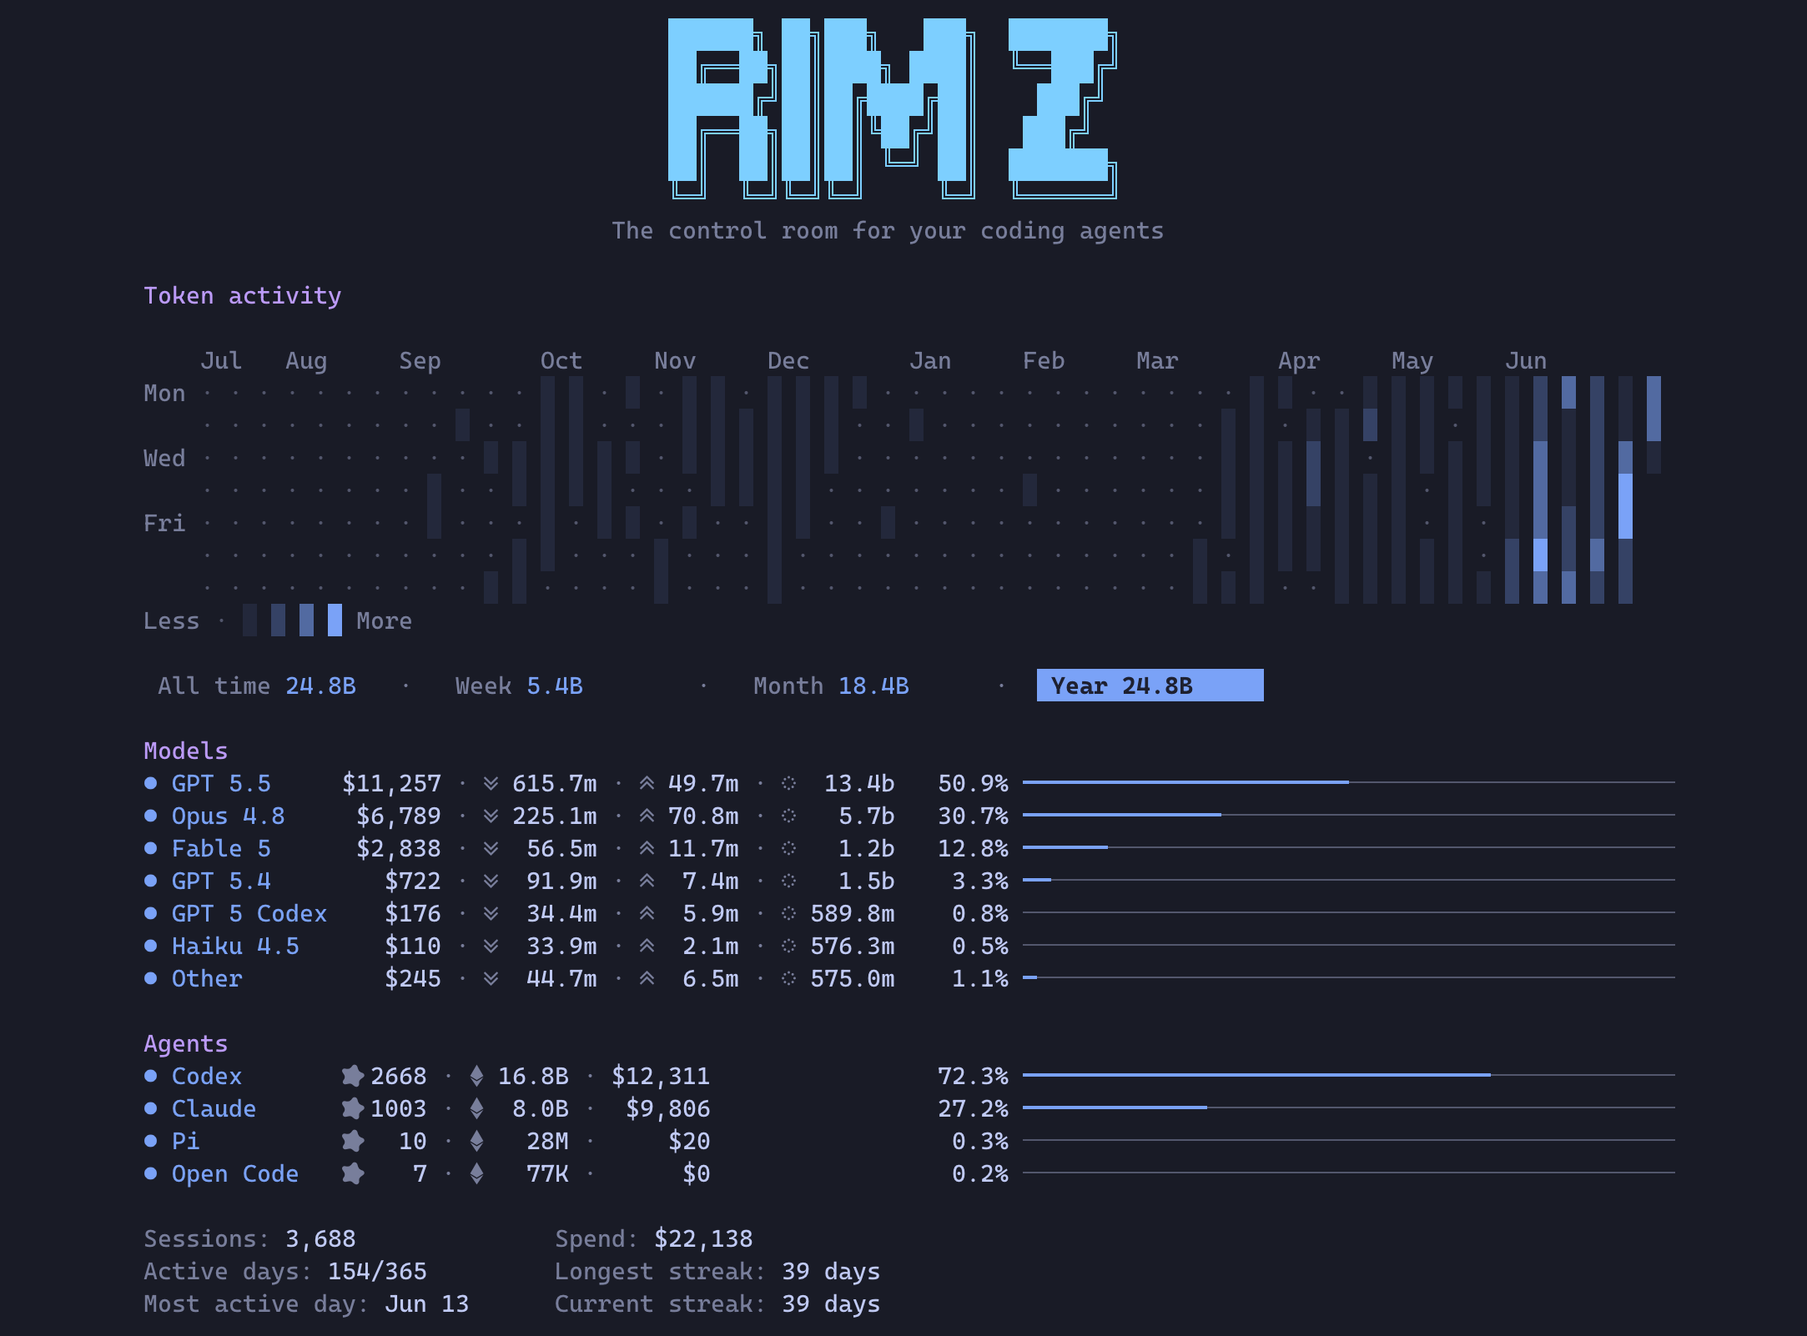
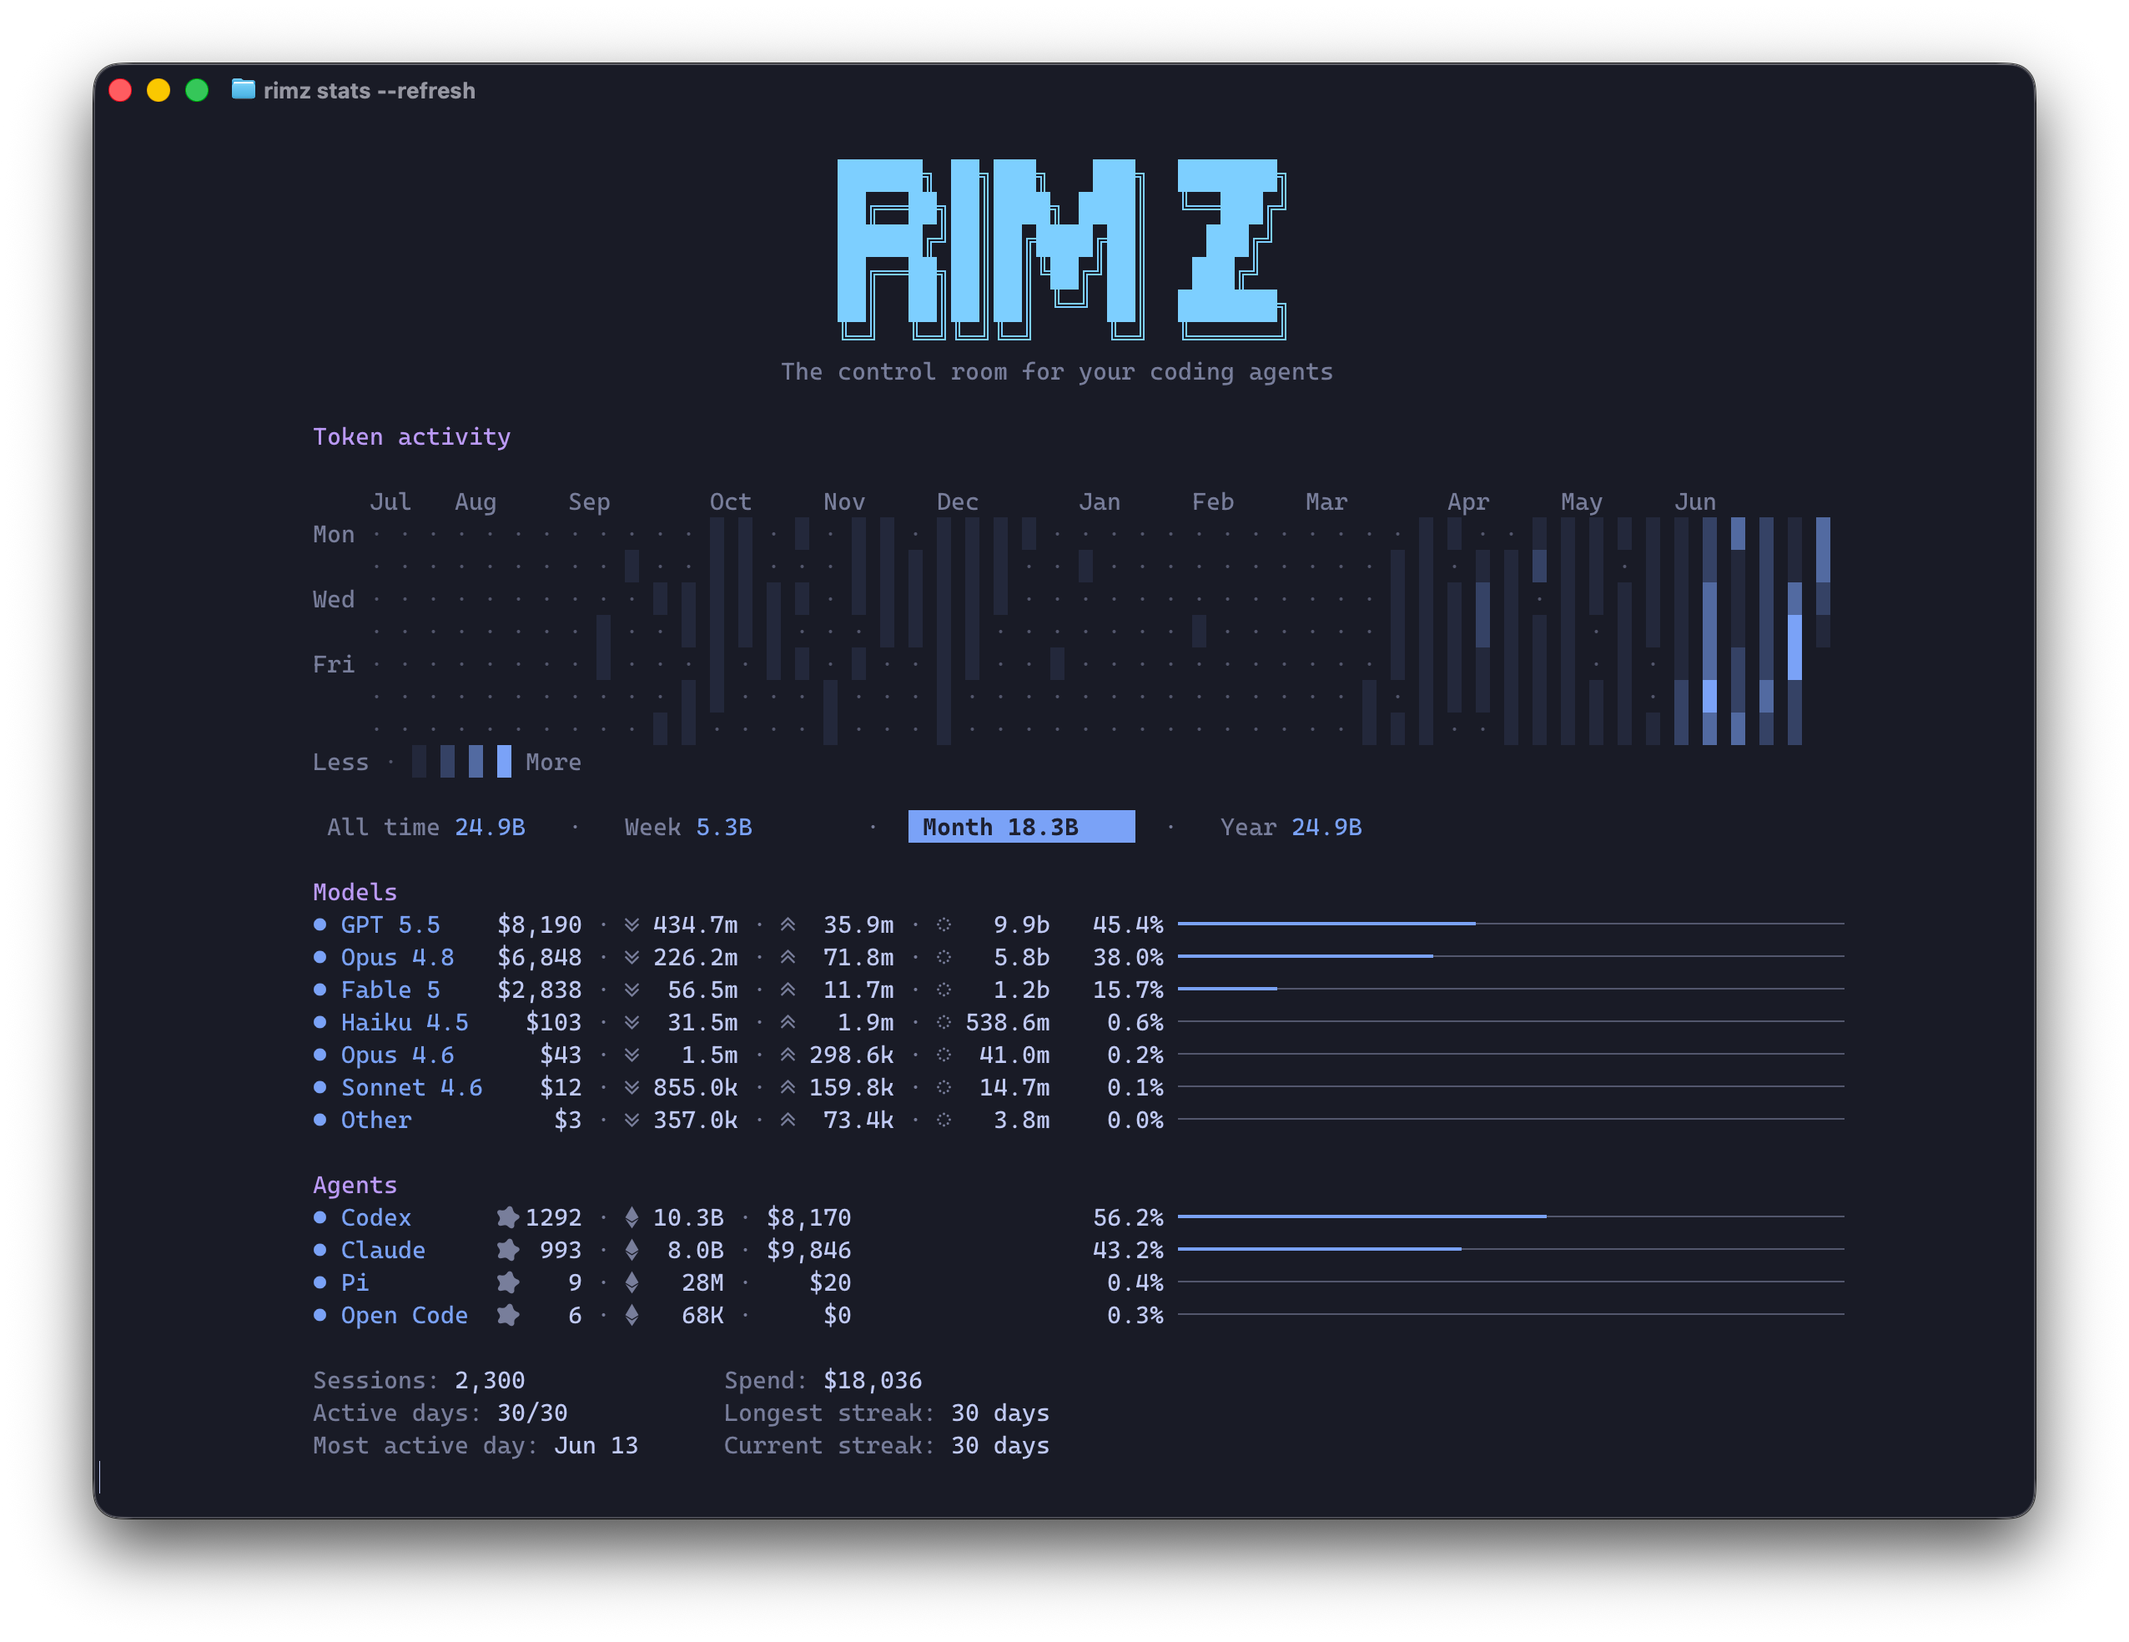
docs(guide): rename spending guide to token insight, tune titles
Polish the guide set. The spending guide becomes insight.md titled
"Token Insight", and every referencing link across the READMEs, the
sidebar and agents guides, the CLI reference, and the doc map follows.
Several guide headings take their short title-case form (Sidebar,
Scripting, Security and Trust, Loops and Schedules), the docs index CLI
entry drops its inline sub-list, and the rimz stats screenshot refreshes.

diff --git a/docs/guide/sidebar.md b/docs/guide/sidebar.md
@@ -1,4 +1,4 @@
-# The sidebar
+# Sidebar
 
 > The sidebar is the narrow column pinned beside your panes, and it answers one question: **which pane needs you, right now.** This page is how to read it — the zones, the cards, the states behind them, and the ranking that decides what sits on top. Every glyph, meter, and frame drawn exactly is the [interface reference](../interface/sidebar.md); the presence and ranking machinery is [internals → sidebar](../internals/sidebar/sidebar.md).
 
@@ -49,7 +49,7 @@ The cockpit and dashboard hold fixed positions, so the numbers you glance at nev
 The top block reads the whole room in four lines:
 
 - **Identity.** The workspace name and its path, so a glance confirms which project this room is.
-- **Sessions and tokens.** How many agent sessions have run in the configured spend window, with the room's token breakdown pinned right: total, input, output, and cache-read. What the marks mean and how the figures add up is [Spending](./spending.md).
+- **Sessions and tokens.** How many agent sessions have run in the configured spend window, with the room's token breakdown pinned right: total, input, output, and cache-read. What the marks mean and how the figures add up is [Token Insight](./insight.md).
 - **Live agents and spend.** How many agents are alive right now, an unread count like `(2)` when results or questions await you, and the room's dollar spend rolling up live as agents work.
 - **The make-up line.** The fleet by state: `? 3  ! 1  ⏸ 0  ✓ 8` counts who asked you something, who failed, who is parked on a provider limit, and who holds a finished result, with live capacity (`⢿` working, `○` idle) on the right.
 
@@ -63,7 +63,7 @@ Cards arrive already triaged (the [ranking below](#how-the-column-is-ordered) de
 
 ### The provider dashboard
 
-Budgets are account-scoped, one account shared by every session of a provider, so they live in a pinned panel at the bottom rather than on the cards. Each provider block names the account and plan (`Claude Max`, `ChatGPT Pro`) and drains a "mana" bar per budget window (5-hour, 7-day) toward its reset, so a glance reads how much of the plan is left. The block also carries that provider's spend, and two totals rows below sum the fleet across the trailing week and month. Reading those figures, and how every one is calculated, is [Spending](./spending.md).
+Budgets are account-scoped, one account shared by every session of a provider, so they live in a pinned panel at the bottom rather than on the cards. Each provider block names the account and plan (`Claude Max`, `ChatGPT Pro`) and drains a "mana" bar per budget window (5-hour, 7-day) toward its reset, so a glance reads how much of the plan is left. The block also carries that provider's spend, and two totals rows below sum the fleet across the trailing week and month. Reading those figures, and how every one is calculated, is [Token Insight](./insight.md).
 
 With several providers the panel tabs, following whichever agent you have selected; `←`/`→` or a click picks one by hand. With [pets enabled](./theme.md#pets), the companion rides the panel's right edge.
 
@@ -191,7 +191,7 @@ Three `[agents.attention]` knobs move the boundaries: `stalled_after_secs` (a si
 ## See also
 
 - [The sidebar on screen](../interface/sidebar.md) — every glyph, meter, and frame drawn exactly, with the key table.
-- [Spending](./spending.md) — read the cockpit and provider-dashboard figures, `rimz stats`, and how the numbers are calculated.
+- [Token Insight](./insight.md) — read the cockpit and provider-dashboard figures, `rimz stats`, and how the numbers are calculated.
 - [Messaging](./messaging.md) — the other half of the loop: reach the agent the sidebar surfaced.
 - [Notifications](./notifications.md) — the same cues pushed to your desktop, phone, or a handler when you are off-screen.
 - [Theming and pets](./theme.md) — restyle the column, its palette, and the companion.

diff --git a/docs/guide/insight.md b/docs/guide/insight.md
@@ -1,4 +1,4 @@
-# Spending and token insight
+# Token Insight
 
 You run a fleet now, not a single agent, and the fleet spends. Tokens turn into dollars across every provider you use, and each keeps its own tally on its own billing page: none beside your code, none aware of the others. The one number you actually want, what the fleet cost and how hard it worked, is the one nobody puts in front of you.
 
@@ -6,14 +6,14 @@ Token insight is that number, in the terminal. Every turn your agents run leaves
 
 You read it two ways. `rimz stats` prints the whole history on demand, from anywhere. The sidebar keeps a live slice of the same data in front of you while you work.
 
-## The full picture: rimz stats
-
-`rimz stats` prints your account-global history: a heatmap of daily token use, the totals for a chosen window, and where the spend went by model and by agent. It reads the same data as the sidebar, so it runs inside a room or anywhere else on the machine, in or out of a project.
-
 <p align="center">
   <img src="../rimz-stats.png" alt="The rimz stats dashboard: a year-long token heatmap, the All time / Week / Month / Year window row, per-model and per-agent spend breakdowns, and activity insights" width="100%">
   <br/><sub><code>rimz stats</code>: a year of token activity, then where it went by model and by agent.</sub>
 </p>
+
+## The full picture: rimz stats
+
+`rimz stats` prints your account-global history: a heatmap of daily token use, the totals for a chosen window, and where the spend went by model and by agent. It reads the same data as the sidebar, so it runs inside a room or anywhere else on the machine, in or out of a project.
 
 - **The heatmap** is a GitHub-style contribution graph of tokens per day, about a year of history, shaded from an idle day up to your heaviest. The scale is relative to your own busiest day in view, so the texture reads against your rhythm rather than an absolute ceiling. `--dollars` shades it by cost instead of tokens.
 - **The window row** (All time, Week, Month, Year) scopes the Models, Agents, and insight rows below it, while the heatmap stays full-history. In the held dashboard, `Tab` and `Shift-Tab` cycle the window; a plain `rimz stats` prints the All-time view.
@@ -75,7 +75,7 @@ The top of the sidebar narrows all of this to the room you are standing in. Two 
 
 ```
  ◎ 91                          ◇ 32M ↘ 28M ↗ 3M ◌ 472M    ← sessions · token breakdown
- ¤ 16 (2)                                      $420.00    ← live agents · unread · room spend
+ ¤ 16 (2)                                      $420.00    ← live agents · unread · spend
 ```
 
 The token breakdown sums every session that ran in the room's spend window, and the dollar figure below it is the room's cost for that same window, counting up in an eased roll the moment any agent's cost moves. Both are scoped to this room: the project root and the worktrees grouped under it, never your whole machine.

diff --git a/docs/README.md b/docs/README.md
@@ -14,7 +14,7 @@ New here? Start with the [README](../README.md) for what Rimz is and why it exis
 
 - [Sidebar](./guide/sidebar.md): read the zones, the agent cards and their lifecycle, and the process rows, and follow how Rimz decides which agent needs you.
 - [Agents](./guide/agents.md): run the stock CLIs in the room, shape an agent for one job with a profile, and compose several into one layout.
-- [Spending](./guide/spending.md): read what the fleet costs and how hard it is working, from the live cockpit to `rimz stats`, and how every figure is calculated.
+- [Token Insight](./guide/insight.md): read what the fleet costs and how hard it is working, from the live cockpit to `rimz stats`, and how every figure is calculated.
 - [Remote](./guide/remote.md): attach to a room on another host over SSH, a multiplexer attach with a self-healing link, kept alive across reboots.
 - [Web](./guide/web.md): open a room in the browser, on the host or tunnelled from a server, gated by a login token.
 
@@ -36,13 +36,12 @@ New here? Start with the [README](../README.md) for what Rimz is and why it exis
 ## Help
 
 - [Troubleshooting](./guide/troubleshooting.md): start with `rimz doctor`, then the fixes for a room that will not start, agents not reporting, degraded banners, version drift, and resetting state.
-- [Security and trust](./guide/security.md): what Rimz changes on your machine and how to undo it, the two places config can run a command (project trust and notification handlers), and what leaves the box.
+- [Security and Trust](./guide/security.md): what Rimz changes on your machine and how to undo it, the two places config can run a command (project trust and notification handlers), and what leaves the box.
 
 ## Reference
 
-- [CLI](./reference/cli.md): the command map and conventions, with a page per group: [getting started](./reference/cli/getting-started.md), [agents](./reference/cli/agents.md), [message](./reference/cli/message.md), [transcript](./reference/cli/transcript.md), [pane](./reference/cli/pane.md), [loop](./reference/cli/loop.md), [channels](./reference/cli/channel.md), [worktrees](./reference/cli/worktree.md), [web](./reference/cli/web.md), [hooks and trust](./reference/cli/hooks-trust.md), and [maintenance](./reference/cli/maintenance.md).
+- [CLI](./reference/cli.md): the command map and conventions, with a page per group.
 - [Agent support](./reference/agent-support.md): per-agent status, integration surface, and permission-mode mapping for Claude Code, Codex, Pi, and OpenCode.
-- [The sidebar on screen](./interface/sidebar.md): every zone, glyph, and meter of the sidebar, with rendered frames.
 
 ## How it works
 

diff --git a/AGENTS.md b/AGENTS.md
@@ -104,7 +104,7 @@ Every other document is a leaf from here, grouped by purpose: **guide** (use it)
 - [worktrees.md](./docs/guide/worktrees.md) — Rimz-owned Git worktrees: isolating a layout or team for parallel work, seeded files, and supervised cleanup.
 - [messaging.md](./docs/guide/messaging.md) — addresses, park/steer/schedule delivery, smart compaction, agent-to-agent chat, and channels.
 - [sidebar.md](./docs/guide/sidebar.md) — reading the sidebar: zones, agent cards and process rows, the agent lifecycle, attention routing and card ranking.
-- [spending.md](./docs/guide/spending.md) — token and dollar insight: the cockpit and provider-dashboard figures, `rimz stats` and its heatmap and breakdowns, and how every figure is calculated.
+- [insight.md](./docs/guide/insight.md) — token and dollar insight: the cockpit and provider-dashboard figures, `rimz stats` and its heatmap and breakdowns, and how every figure is calculated.
 - [remote.md](./docs/guide/remote.md) — attaching to a room on another host over SSH: a multiplexer attach, the self-healing link, and continuity across reboots.
 - [web.md](./docs/guide/web.md) — browser access: the local Zellij web server, remote `--web` tunnels, and login tokens.
 - [scripting.md](./docs/guide/scripting.md) — supervised `-p` runs: exit codes, JSON and streaming output, background runs and wait, and the orchestration primitives.

diff --git a/README.md b/README.md
@@ -229,7 +229,7 @@ Adapters are thin layers over the same hook and transcript primitives; the agent
 The [documentation index](./docs/README.md) maps the whole set. Highlights:
 
 - [Set up your machine](./docs/guide/setup.md) — install to a working fleet: config, hooks, true color, pets, and the Zellij/tmux baselines
-- [Working with agents](./docs/guide/agents.md) — [agents](./docs/guide/agents.md) · [the sidebar](./docs/guide/sidebar.md) · [spending](./docs/guide/spending.md) · [remote](./docs/guide/remote.md) · [web](./docs/guide/web.md)
+- [Working with agents](./docs/guide/agents.md) — [agents](./docs/guide/agents.md) · [the sidebar](./docs/guide/sidebar.md) · [token insight](./docs/guide/insight.md) · [remote](./docs/guide/remote.md) · [web](./docs/guide/web.md)
 - [Harness](./docs/guide/messaging.md) — [messaging](./docs/guide/messaging.md) · [teams](./docs/guide/teams.md) · [worktrees](./docs/guide/worktrees.md) · [scripting agents](./docs/guide/scripting.md) · [loops & schedules](./docs/guide/loops.md)
 - [CLI reference](./docs/reference/cli.md) · [Configuration](./docs/guide/configuration.md) · [Theming](./docs/guide/theme.md) · [Troubleshooting](./docs/guide/troubleshooting.md)
 - [DESIGN.md](./DESIGN.md) · [ARCHITECTURE.md](./ARCHITECTURE.md) · [internals](./docs/internals/README.md) — how it works, in depth

diff --git a/docs/guide/agents.md b/docs/guide/agents.md
@@ -250,7 +250,7 @@ The complete `rimz agents` surface, every verb and flag, is the [agent-control r
 - [Teams](./teams.md) — pair profiles by role and launch, reopen, and resume the whole set as one unit.
 - [Messaging](./messaging.md) — reach agents by handle: park, steer, schedule, and channels.
 - [The sidebar](./sidebar.md) — how the room reads the cards, worktrees, and teams you launch.
-- [Spending](./spending.md) — fleet-wide token and dollar insight: the cockpit, the provider dashboard, and `rimz stats`.
+- [Token Insight](./insight.md) — fleet-wide token and dollar insight: the cockpit, the provider dashboard, and `rimz stats`.
 - [Scripting agents](./scripting.md) — the same launcher as a supervised, exit-coded run (`-p`).
 - [Configuration → profiles and teams](./configuration.md#agent-profiles-commands-and-teams) — the `agents.toml` shape behind every profile and team.
 - [Agent-control reference](../reference/cli/agents.md) — the complete `rimz agents`, `worktree`, and `gc` surface.

diff --git a/docs/reference/cli.md b/docs/reference/cli.md
@@ -25,7 +25,7 @@ rimz
 
 | Group | Commands | Reference |
 | --- | --- | --- |
-| **Open and connect rooms** | `rimz`, `start`, `attach`, `remote`, `web`, `list`, `stats`, `setup`, `doctor` | [Getting started](./cli/getting-started.md) · [Web](./cli/web.md) · [Stats](../guide/spending.md#the-full-picture-rimz-stats) |
+| **Open and connect rooms** | `rimz`, `start`, `attach`, `remote`, `web`, `list`, `stats`, `setup`, `doctor` | [Getting started](./cli/getting-started.md) · [Web](./cli/web.md) · [Stats](../guide/insight.md#the-full-picture-rimz-stats) |
 | **Run and steer agents** | `agents`, `message`, `transcript`, `pane` | [Agents](./cli/agents.md) · [Message](./cli/message.md) · [Transcript](./cli/transcript.md) · [Pane](./cli/pane.md) |
 | **Lanes and schedules** | `channel`, `worktree`, `loop` | [Channels](./cli/channel.md) · [Worktrees](./cli/worktree.md) · [Loop](./cli/loop.md) |
 | **Hooks and trust** | `hooks`, `trust` | [Hooks and trust](./cli/hooks-trust.md) |

diff --git a/docs/guide/scripting.md b/docs/guide/scripting.md
@@ -1,4 +1,4 @@
-# Scripting agents
+# Scripting
 
 > `rimz agents -p` is `claude -p` for every agent Rimz supports: one prompt, one supervised turn, one exit code — with the turn running in a real pane you can watch, answer, and steer. This page is how you drop an agent into a shell script, a `Makefile`, a cron line, or a CI job. The run records, wakeup socket, and pane cleanup underneath it are [harness.md → Supervised runs](../internals/harness/harness.md#supervised-runs).
 

diff --git a/docs/guide/security.md b/docs/guide/security.md
@@ -1,4 +1,4 @@
-# Security and trust
+# Security and Trust
 
 Rimz runs as you: no daemon, no elevated privileges, no account of its own. It reports on the agents you already run, inside the terminal you already use. Its security model follows from that. Rimz asks before it changes anything on your machine, every change has a matching undo, and the only places a config file can make Rimz run a command are decisions you make by hand.
 

diff --git a/docs/guide/loops.md b/docs/guide/loops.md
@@ -1,4 +1,4 @@
-# Loops and schedules
+# Loops and Schedules
 
 > `rimz loop` is cron for your agents: a named task, a schedule, and a supervised turn that fires in a real pane while the room is open. This page goes from small single-purpose loops to a fleet that works nights. The elder clock, state files, and run log underneath are [harness.md → Scheduled turns](../internals/harness/harness.md#scheduled-turns-loop).
 
